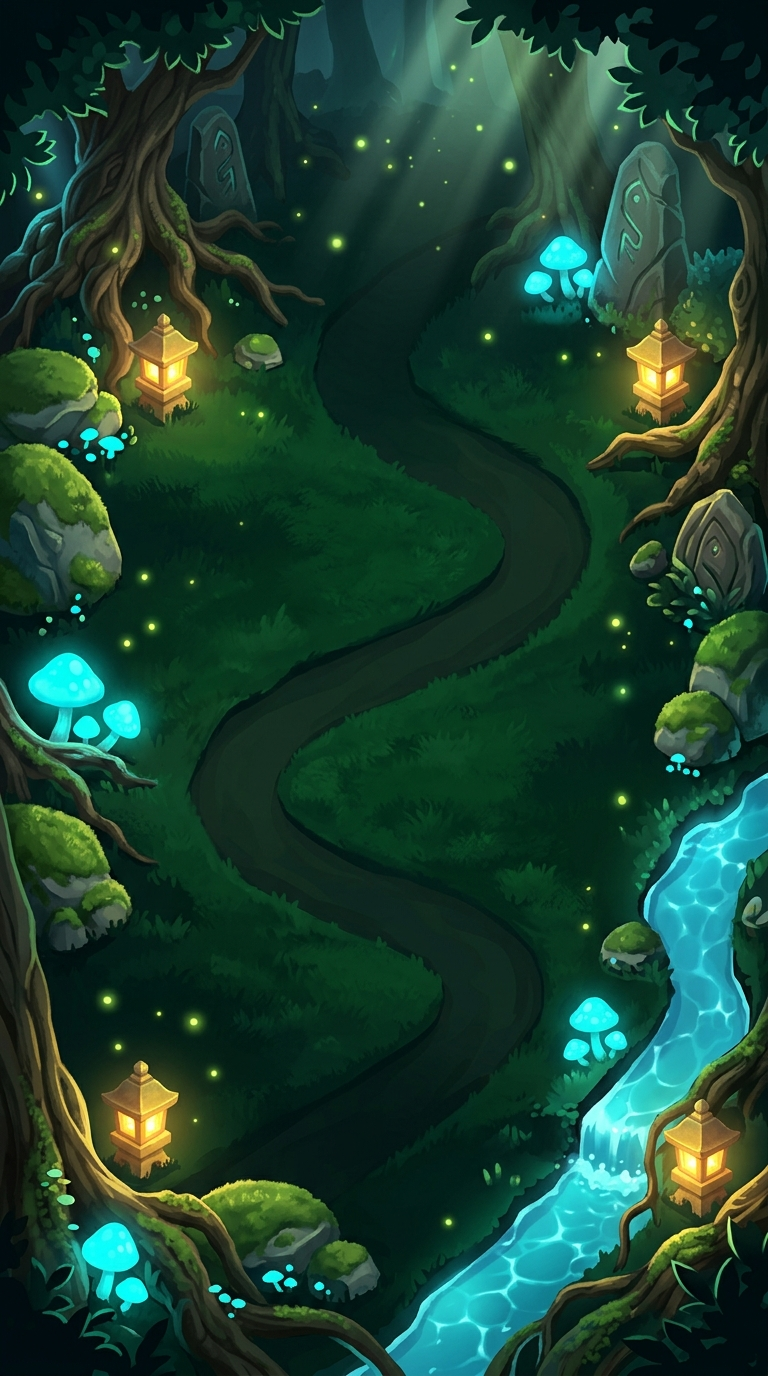
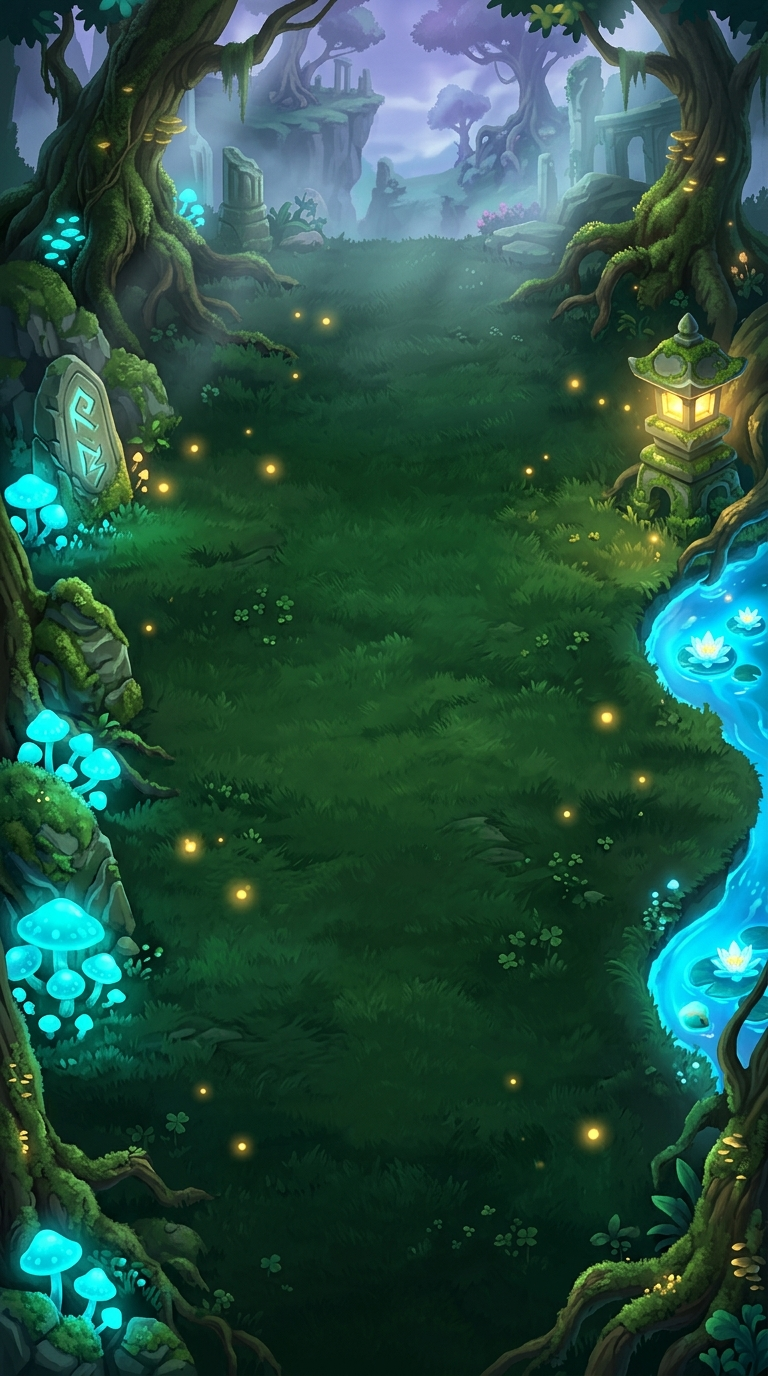
feat(roadmap): replace 2.5D forest map background with seamless moss meadow (no baked-in road)

diff --git a/css/roadmap-v4-gamified.css b/css/roadmap-v4-gamified.css
@@ -58,9 +58,9 @@ html.light #roadmapCardTag, html.light .rm-top-pill-prog { color: #18181B !impor
 .sq-roadmap-map {
     padding: 6px 12px 128px !important; max-width: 100% !important; margin: 0 auto;
     background:
-        linear-gradient(90deg, rgba(8, 14, 10, 0.08) 0%, rgba(8, 14, 10, 0.44) 30%, rgba(8, 14, 10, 0.46) 50%, rgba(8, 14, 10, 0.44) 70%, rgba(8, 14, 10, 0.08) 100%),
-        linear-gradient(180deg, #0B130E 0%, rgba(11, 19, 14, 0.14) 5%, rgba(11, 19, 14, 0.14) 94%, #0B130E 100%),
-        url('../assets/cards/fable_forest_game_map_bg.jpg') center top / 100% auto repeat-y !important;
+        linear-gradient(90deg, rgba(8, 14, 10, 0.06) 0%, rgba(8, 14, 10, 0.30) 32%, rgba(8, 14, 10, 0.32) 50%, rgba(8, 14, 10, 0.30) 68%, rgba(8, 14, 10, 0.06) 100%),
+        linear-gradient(180deg, #0B130E 0%, rgba(11, 19, 14, 0.55) 7%, rgba(11, 19, 14, 0.12) 15%, rgba(11, 19, 14, 0.12) 93%, #0B130E 100%),
+        url('../assets/cards/fable_forest_game_map_bg.jpg?v=20261020_nopath') center top / 100% auto repeat-y !important;
 }
 html.light .sq-roadmap-map { background: #F4F5EE !important; }
 #roadmapNextBar, #mysteryRoadmapNextBar { display: none !important; }

diff --git a/index.html b/index.html
@@ -63,9 +63,9 @@
     <link rel="stylesheet" href="css/components/storyWordLookup.css?v=20261016_ctx_v4">
     <link rel="stylesheet" href="css/components/storyFlippableCard.css?v=20261015_m3_v42">
     <link rel="stylesheet" href="css/components/bottomNav.css?v=20261012_pill">
-    <link rel="stylesheet" href="css/roadmap-mystery.css?v=20261020_v25_richbg">
-    <link rel="stylesheet" href="css/roadmap-v4-gamified.css?v=20261020_v25_richbg">
-    <link rel="stylesheet" href="css/roadmap-characters-anim.css?v=20261020_v25_richbg">
+    <link rel="stylesheet" href="css/roadmap-mystery.css?v=20261020_v26_nopath">
+    <link rel="stylesheet" href="css/roadmap-v4-gamified.css?v=20261020_v26_nopath">
+    <link rel="stylesheet" href="css/roadmap-characters-anim.css?v=20261020_v26_nopath">
     <link rel="stylesheet" href="css/book-styles-showcase.css?v=20261016_final3d">
 </head>
 <body class="h-[820px] w-full max-w-[420px] mx-auto relative overflow-hidden bg-appBg border border-white/10 shadow-[0_30px_100px_rgba(0,0,0,0.9)] rounded-[48px] mt-3 sm:mt-5 mb-6 flex flex-col">
